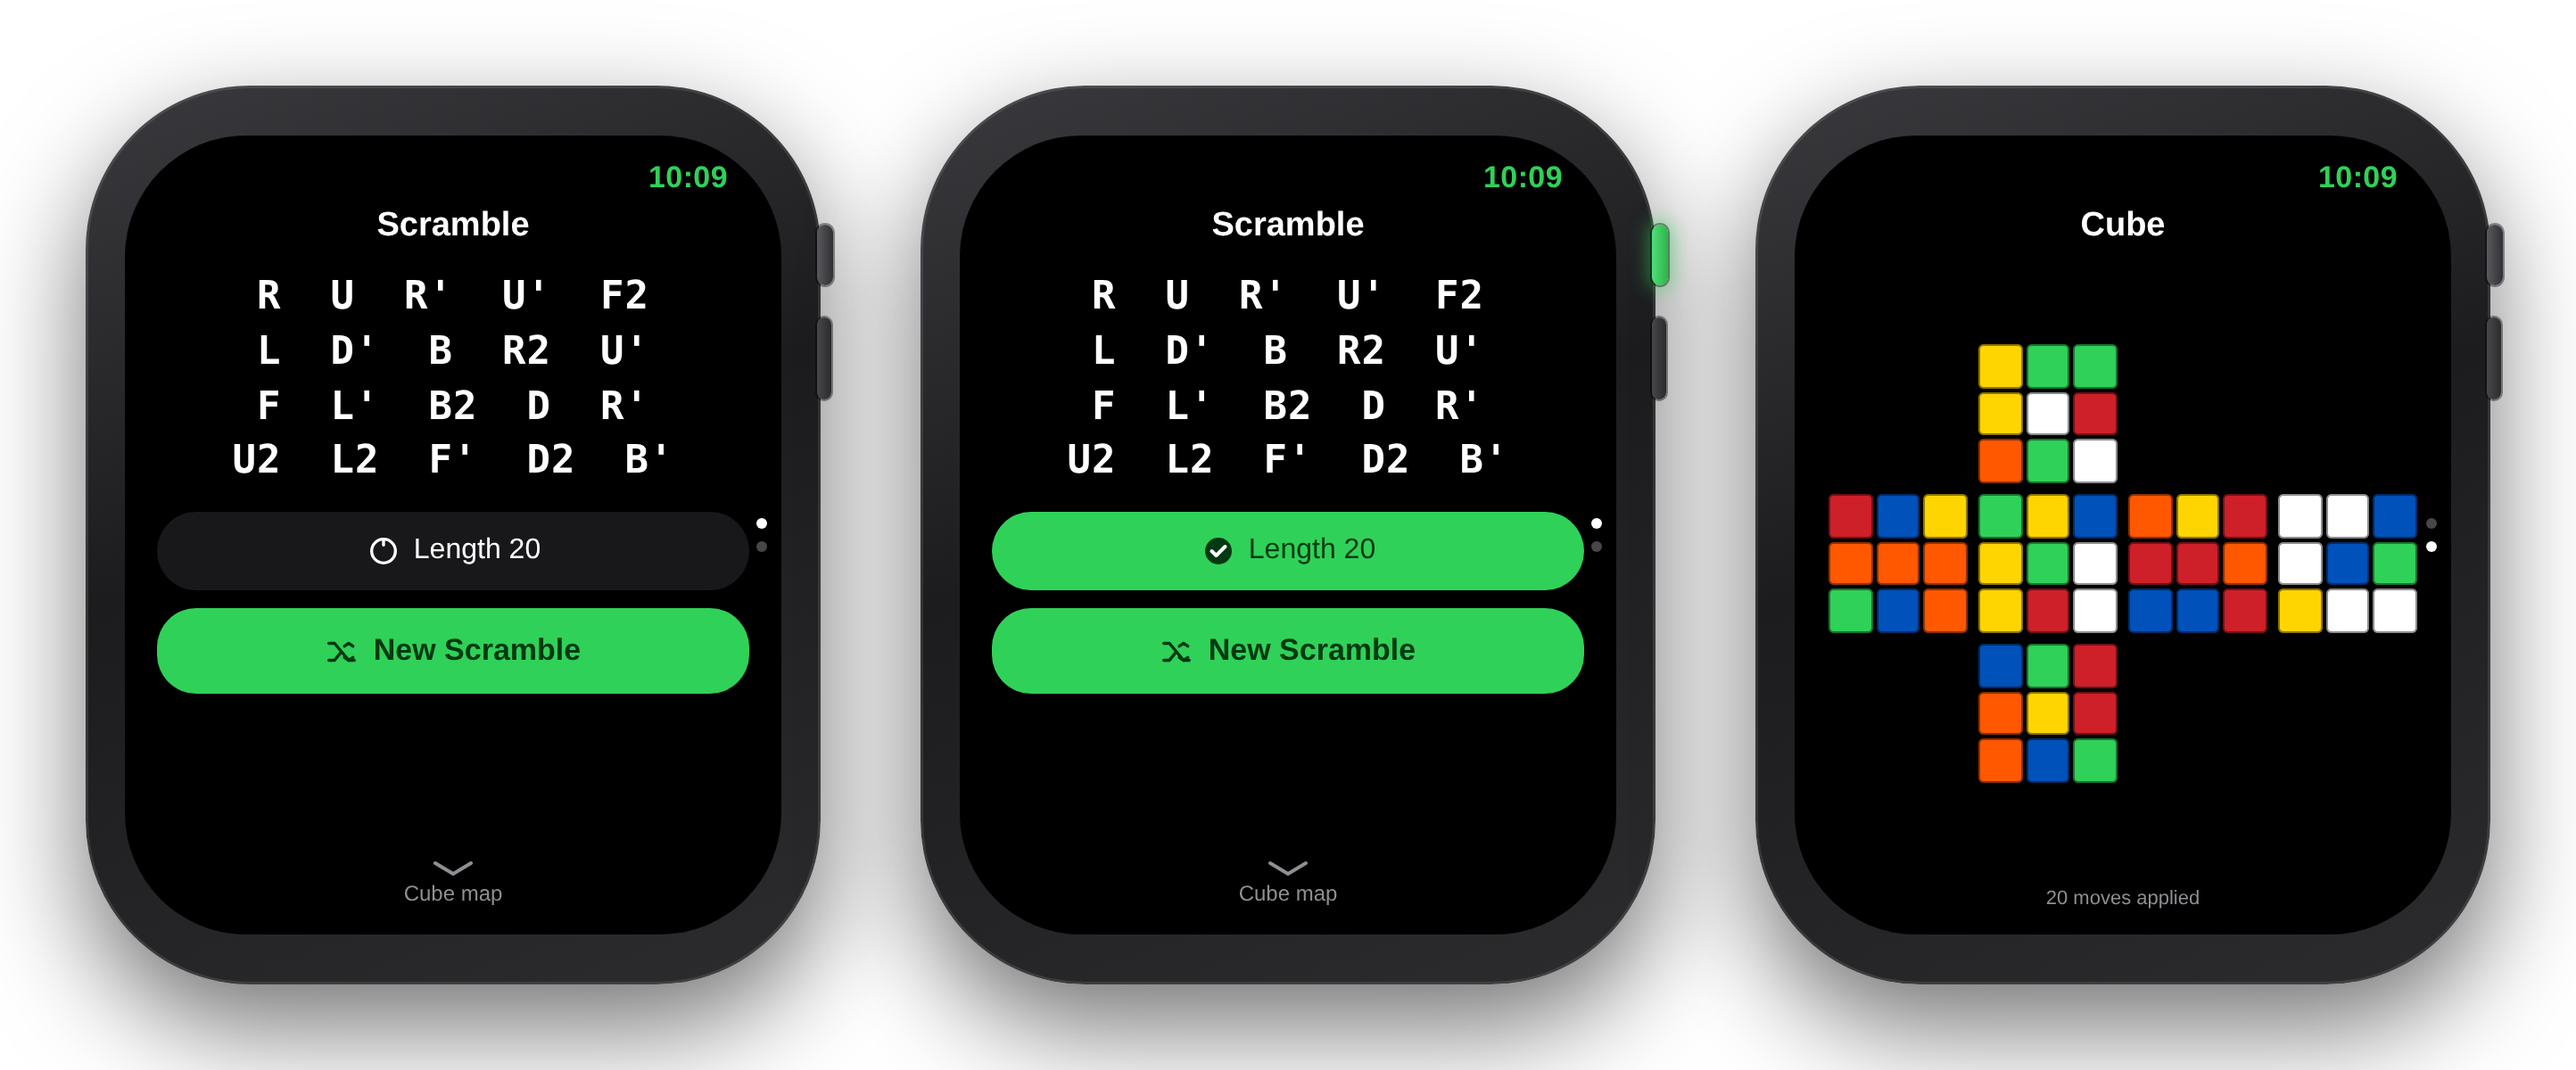
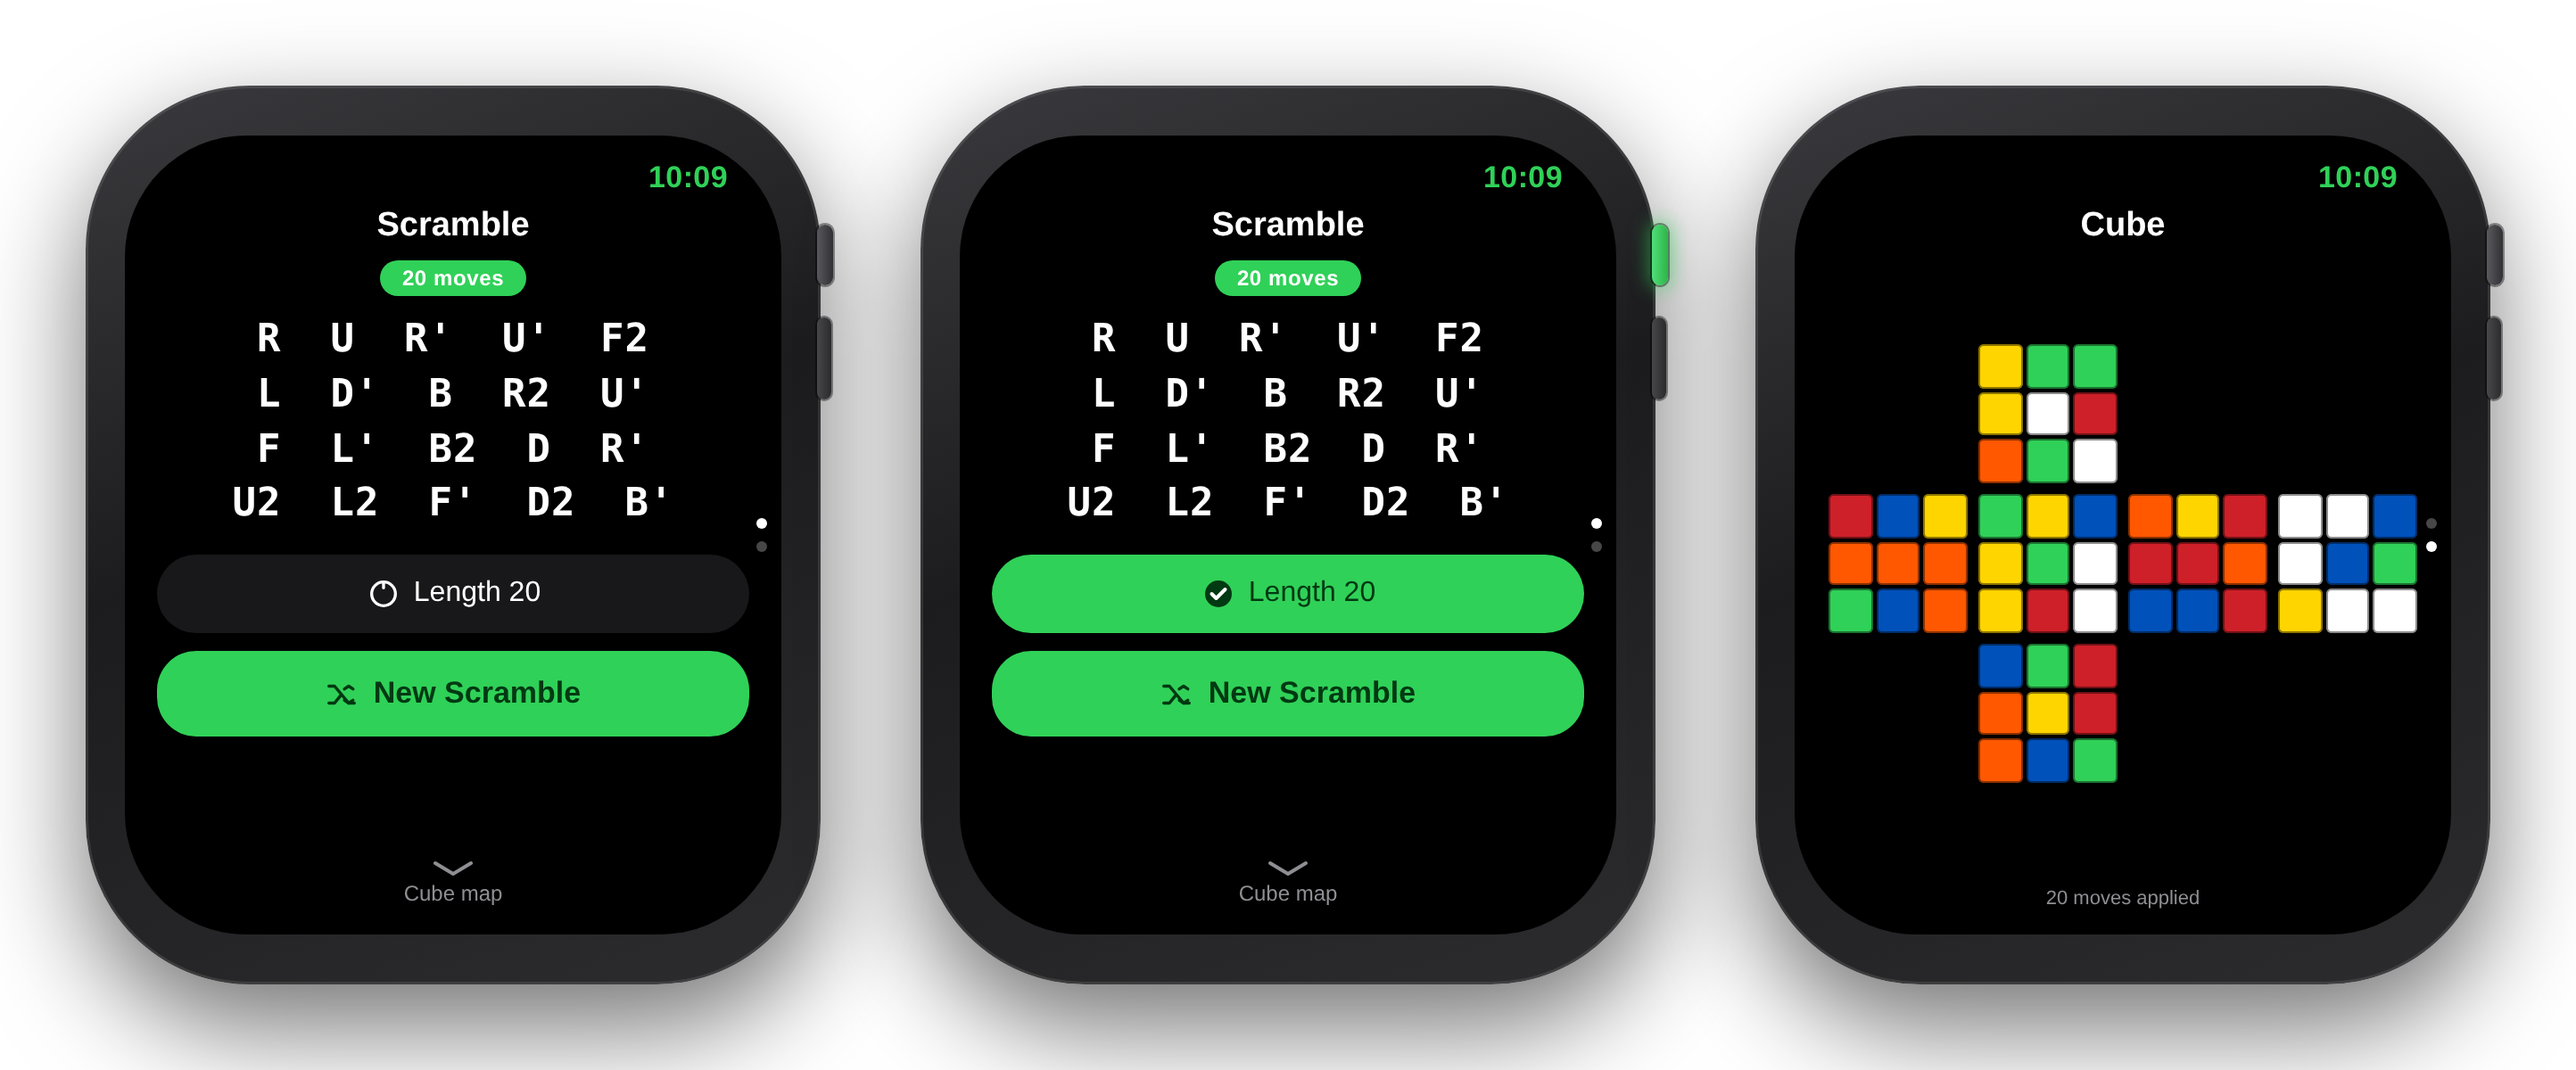
Add accent-green move count pill atop the scramble screen
Mirrors the "20 moves applied" caption on the cube screen but uses a
white-on-accent-green capsule at the top so the scramble length reads
at a glance, even with the screen rolled away from the eye.

https://claude.ai/code/session_01UzvteeouedwRnp5Jnq4bwE

Changed region(s): [[0.0623, 0.2158, 0.3116, 0.7092], [0.374, 0.2467, 0.6233, 0.7092]]

diff --git a/mockup/index.html b/mockup/index.html
@@ -222,6 +222,20 @@
     color: var(--secondary);
     font-size: 11px;
   }
+
+  /* Top-of-screen count pill — analogous to "20 moves applied" on the
+     cube screen, but emphasized in accent green so it reads at a glance. */
+  .movecount {
+    align-self: center;
+    background: var(--accent);
+    color: #fff;
+    font-size: 12px;
+    font-weight: 700;
+    padding: 3px 12px;
+    border-radius: 999px;
+    letter-spacing: 0.3px;
+    margin-bottom: 4px;
+  }
 </style>
 </head>
 <body>
@@ -234,6 +248,7 @@
       <div class="statusbar"><span class="time">10:09</span></div>
       <div class="navtitle">Scramble</div>
       <div class="content">
+        <div class="movecount">20 moves</div>
         <div class="scramble" id="scrambleText"></div>
 
         <button class="lengthpill">
@@ -277,6 +292,7 @@
       <div class="statusbar"><span class="time">10:09</span></div>
       <div class="navtitle">Scramble</div>
       <div class="content">
+        <div class="movecount">20 moves</div>
         <div class="scramble"></div>
 
         <button class="lengthpill active">

diff --git a/RubiksScramble/RubiksScramble Watch App/ContentView.swift b/RubiksScramble/RubiksScramble Watch App/ContentView.swift
@@ -31,6 +31,13 @@ private struct ScrambleScreen: View {
         NavigationStack {
             ScrollView {
                 VStack(spacing: 12) {
+                    Text("\(moves.count) moves")
+                        .font(.system(size: 12, weight: .bold))
+                        .foregroundStyle(.white)
+                        .padding(.horizontal, 10)
+                        .padding(.vertical, 3)
+                        .background(Capsule().fill(Color.accentColor))
+
                     Text(scrambleRows)
                         .font(.system(size: 19, weight: .semibold, design: .monospaced))
                         .multilineTextAlignment(.center)
